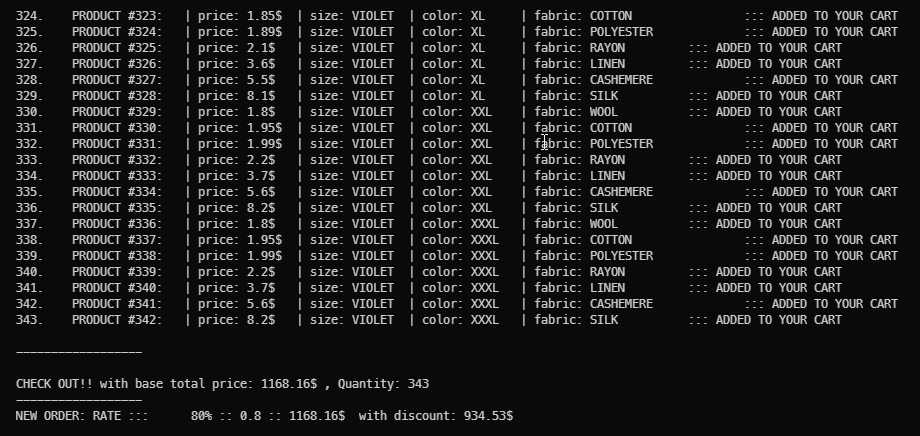
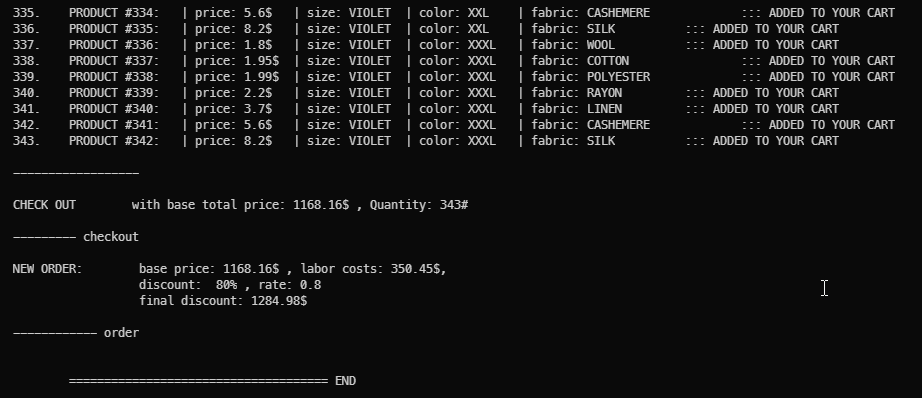
labor cost added

diff --git a/app.js b/app.js
@@ -13,7 +13,7 @@ const { TShirt, TShirtGenerator } = require('./src/models/tshirt');
 // ////////////////////////////////////////////////////////////////////// //
 
 console.log('\n\t                                   app.js');
-console.log('\tSTART ===================================\n');
+console.log('\tSTART ===================================\n\n');
 
 
 
@@ -23,7 +23,9 @@ console.log('\tSTART ===================================\n');
 const myTSHIRT1 = new TShirt(456, sizes.S, colors.Yellow, fabrics.Wool);
 const myTSHIRT2 = new TShirt(552, sizes.XL, colors.Red, fabrics.Silk);
 const myTSHIRT3 = new TShirt(652, sizes.L, colors.Blue, fabrics.Rayon);
-// console.log(myTSHIRT);
+// console.log(myTSHIRT1);
+// console.log(myTSHIRT2);
+// console.log(myTSHIRT3);
 // --------------------------------------------------------------------
 
 
@@ -52,7 +54,9 @@ const cart = new Cart(Stock);
 // cart.add(myTSHIRT2);     //  can add one tshirt object to products
 // cart.add(myTSHIRT3);     //  can add one tshirt object to products
 
+// cart.checkOut(80);       //  CHECKOUT pass the discount rate from 0 to 100
 // cart.checkOut(90);       //  CHECKOUT pass the discount rate from 0 to 100
+// cart.checkOut(100);      //  CHECKOUT pass the discount rate from 0 to 100
 
 // ---------
 
@@ -62,15 +66,17 @@ const cart = new Cart(Stock);
 // Example 2 :: buy one or multiply products from Stock
 // ----------------------------------------------------
 
-// cart.check(66);               //  takes Stock and adds a product by id to products from Stock list 
+cart.check(66);               //  takes Stock and adds a product by id to products from Stock list 
 
-// cart.check(80).check(9);      //  takes Stock and adds a product by id to products from Stock list 
-// cart.check(1).check(3);       //  takes Stock and adds a product by id to products from Stock list 
-// cart.check(229);              //  takes Stock and adds a product by id to products from Stock list 
+cart.check(80).check(9);      //  takes Stock and adds a product by id to products from Stock list 
+cart.check(1).check(3);       //  takes Stock and adds a product by id to products from Stock list 
+cart.check(229);              //  takes Stock and adds a product by id to products from Stock list 
 
 // cart.itemsChecked();          //  list of available items in products array
 
 // cart.checkOut(80);            //  CHECKOUT pass the discount rate from 0 to 100
+cart.checkOut(90);            //  CHECKOUT pass the discount rate from 0 to 100
+// cart.checkOut(100);           //  CHECKOUT pass the discount rate from 0 to 100
 
 // ---------
 
@@ -81,8 +87,10 @@ const cart = new Cart(Stock);
 
 // Example 3 :: buy all available products from Stock
 // -----------------------------------------------
-// cart.buyAll(80);              //  checks all products from Stock and checkout
-                                   //  with a discount rate from 0 to 100;
+// cart.buyAll(80);     // credit card       //  checks all products from Stock and checkout
+// cart.buyAll(90);     // money bank        //  checks all products from Stock and checkout
+// cart.buyAll(100);    // cash  flat rate   //  checks all products from Stock and checkout
+                                          //  with a discount rate from 0 to 100;
 
 // ---------
 

diff --git a/src/models/cart.js b/src/models/cart.js
@@ -10,6 +10,7 @@ class Cart {
 
   calc() {
     this.total = 0;
+    console.log('\ncalc() -----------\n');
     this.products.forEach((tshirt, index) => {
       console.log(`${index+1}.    PRODUCT #${tshirt.id}: \t| price: ${tshirt.price}$ \t| size: ${tshirt.size} \t| color: ${tshirt.color} \t| fabric: ${tshirt.fabric}\t\t::: ADDED TO YOUR CART`);
       this.total = this.total + tshirt.price
@@ -23,7 +24,7 @@ class Cart {
 
   check(index) {
     this.products.push(this.stock.find(tshirt => tshirt.id === index))
-    console.log(`PRODUCT: ${index}# \tcheckedn`);
+    console.log(`PRODUCT: ${index}# \tchecked`);
     return this; 
   }
 
@@ -37,9 +38,9 @@ class Cart {
   checkOut = (rate) => {
     this.calc();
     console.log('\n------------------');
-    console.log(`\nCHECK OUT!! with base total price: ${this.total.toFixed(2)}$ , Quantity: ${this.products.length}`);
+    console.log(`\nCHECK OUT \t with base total price: ${this.total.toFixed(2)}$ , Quantity: ${this.products.length}#`);
     this.products = [];
-    console.log('------------------');
+    console.log('\n--------- checkout\n');
     return new Order(this.total, rate)
   }
 

diff --git a/src/models/order.js b/src/models/order.js
@@ -1,9 +1,11 @@
 class Order {
   constructor(amount, rate) {
     this.rate = rate / 100
-    this.discount = (this.rate * amount).toFixed(2);
-    console.log(`NEW ORDER: RATE ::: \t ${rate}% :: ${this.rate} :: ${amount.toFixed(2)}$  with discount: ${+this.discount}$\n`);
-    console.log('-------------- s n \n');
+    this.labor = amount * 0.3
+    // console.log(this.labor.toFixed(2),'alshdskajhdskahdskahdjkahdsjkahasjda');
+    this.discount = ((this.rate * amount) + this.labor).toFixed(2);
+    console.log(`NEW ORDER: \t  base price: ${amount.toFixed(2)}$ , labor costs: ${this.labor.toFixed(2)}$, \n\t\t  discount:  ${rate}% , rate: ${this.rate} \n\t\t  final discount: ${+this.discount}$\n`);
+    console.log('------------ order \n');
   }
 };
 

diff --git a/README.md b/README.md
@@ -214,6 +214,8 @@ getAttribute(colors.Red)
 
 `Cart` produces the `cart` object that takes a `Stock` object and adds items into products array and `checkout` by creating a  `new Order`.
 
+`Order` calculates total attribute cost per item with labor and the given discount on checkout.
+
 
 
 
